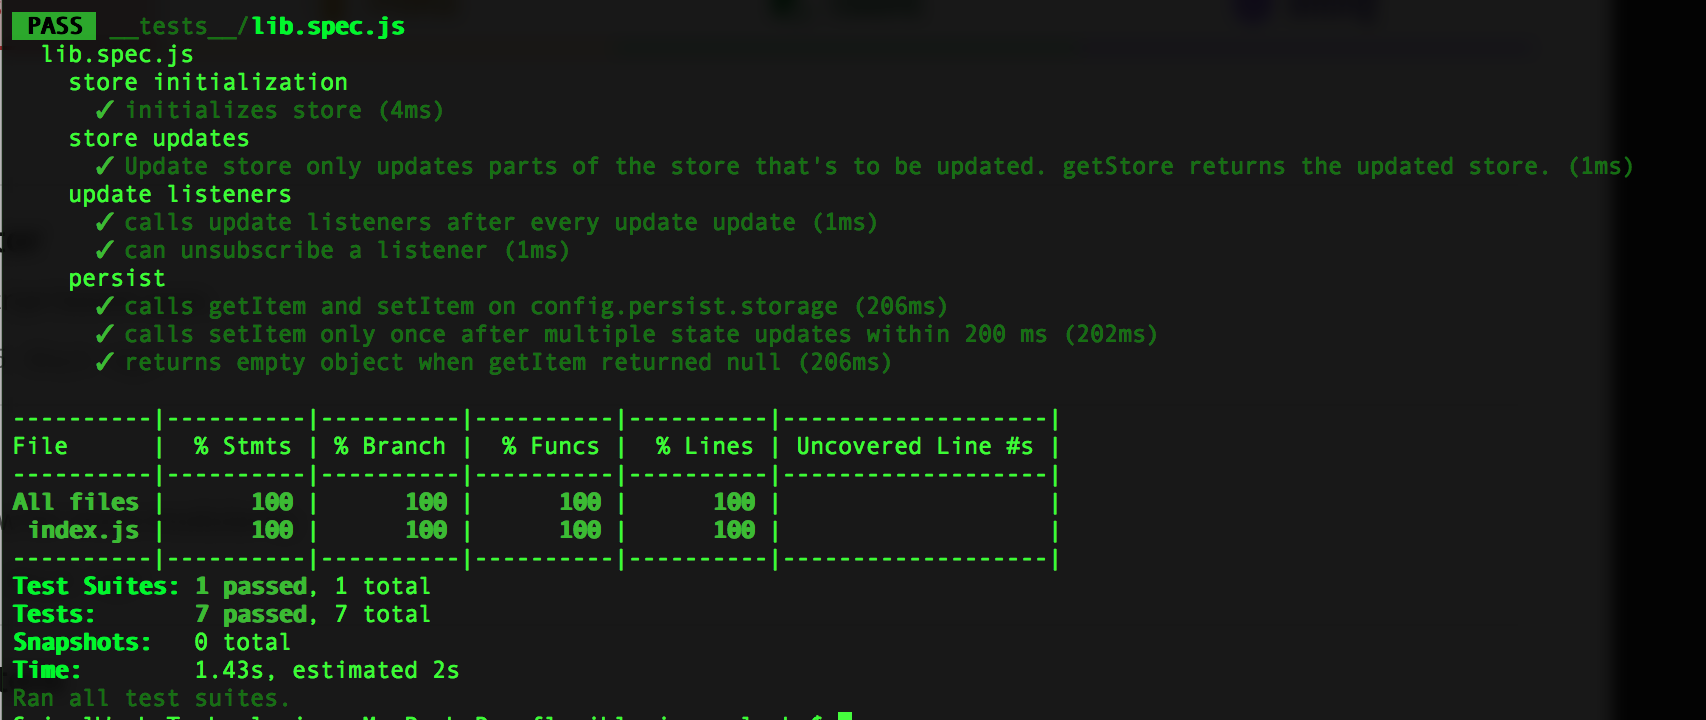
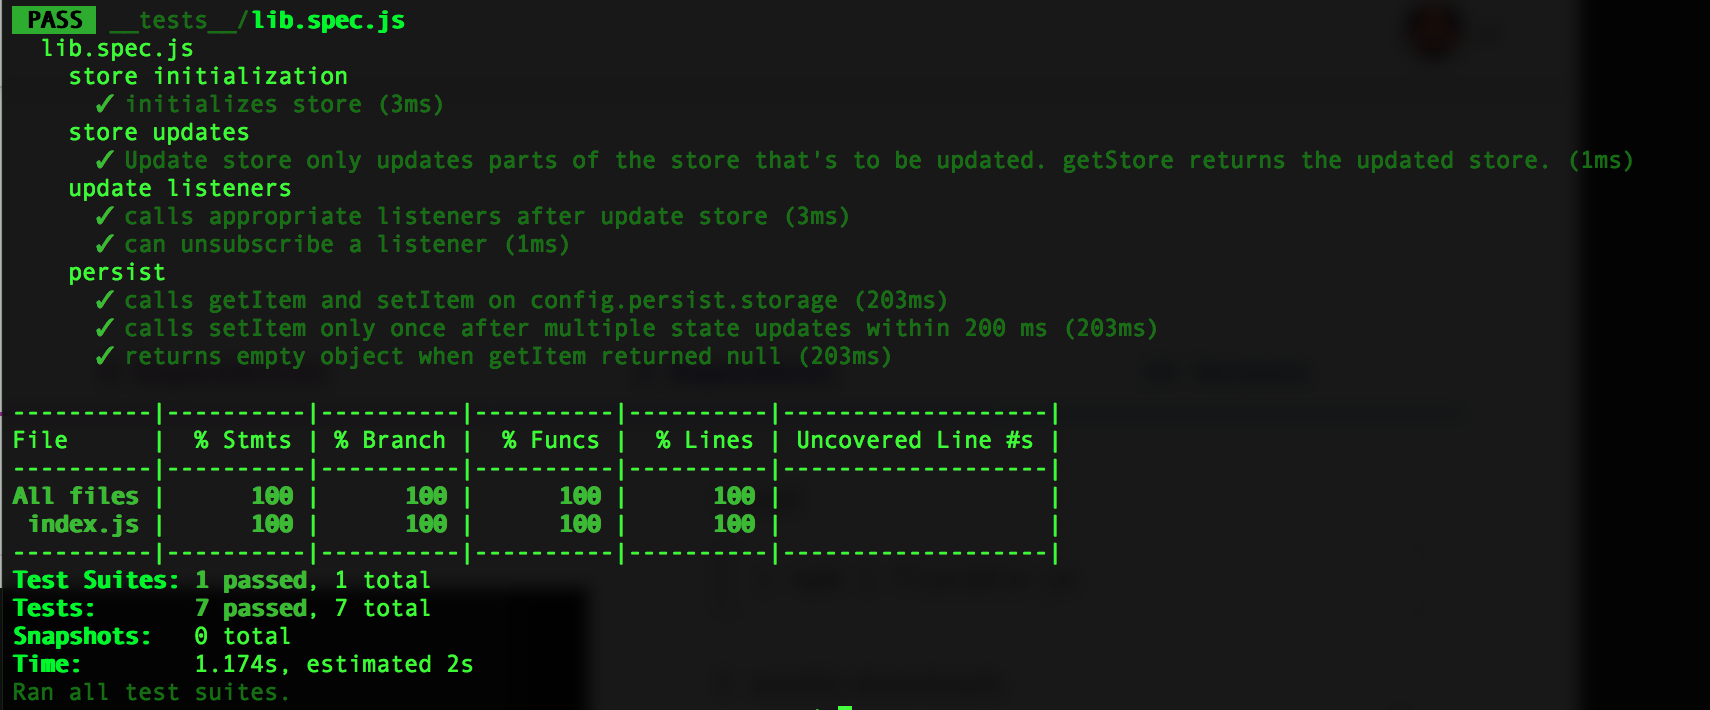
updated docs; renamed addUpdateListener to addObserver;

diff --git a/lib/index.min.js b/lib/index.min.js
@@ -1,1 +1,1 @@
-'use strict';var _extends=Object.assign||function(a){for(var b,c=1;c<arguments.length;c++)for(var d in b=arguments[c],b)Object.prototype.hasOwnProperty.call(b,d)&&(a[d]=b[d]);return a};Object.defineProperty(exports,'__esModule',{value:!0});exports.initializeStore=initializeStore,exports.getStore=getStore,exports.updateStore=updateStore,exports.addUpdateListener=addUpdateListener;var updateListeners=[],store={},persistedStateKeys=void 0,persistStorage=void 0,persistTimeout=void 0;function initializeStore(a){var b={};a.persist&&(persistStorage=a.persist.storage,b=a.persist.restore(JSON.parse(persistStorage.getItem('fluxible-js'))||{}),persistedStateKeys=Object.keys(b)),store=_extends({},a.initialStore,b)}function getStore(){return store}function updateStore(a){store=_extends({},store,a),persistTimeout&&clearTimeout(persistTimeout);var b=Object.keys(a);updateListeners.forEach(function(c){for(var d=0;d<b.length;d++)if(-1!==c.states.indexOf('{'+b[d]+'}')){c.callback(store);break}}),persistedStateKeys&&(persistTimeout=setTimeout(function(){for(var b={},c=0;c<persistedStateKeys.length;c++)b[persistedStateKeys[c]]=store[persistedStateKeys[c]];persistStorage.setItem('fluxible-js',JSON.stringify(b))},200))}function addUpdateListener(a,b){var c={callback:a,states:b.map(function(a){return'{'+a+'}'}).join(' ')};return updateListeners.push(c),function(){updateListeners.splice(updateListeners.indexOf(c),1)}}
+'use strict';var _extends=Object.assign||function(a){for(var b,c=1;c<arguments.length;c++)for(var d in b=arguments[c],b)Object.prototype.hasOwnProperty.call(b,d)&&(a[d]=b[d]);return a};Object.defineProperty(exports,'__esModule',{value:!0});exports.initializeStore=initializeStore,exports.getStore=getStore,exports.updateStore=updateStore,exports.addObserver=addObserver;var observers=[],store={},persistedStateKeys=void 0,persistStorage=void 0,persistTimeout=void 0;function initializeStore(a){var b={};a.persist&&(persistStorage=a.persist.storage,b=a.persist.restore(JSON.parse(persistStorage.getItem('fluxible-js'))||{}),persistedStateKeys=Object.keys(b)),store=_extends({},a.initialStore,b)}function getStore(){return store}function updateStore(a){store=_extends({},store,a),persistTimeout&&clearTimeout(persistTimeout);var b=Object.keys(a);observers.forEach(function(c){for(var d=0;d<b.length;d++)if(-1!==c.states.indexOf('{'+b[d]+'}')){c.callback(store);break}}),persistedStateKeys&&(persistTimeout=setTimeout(function(){for(var b={},c=0;c<persistedStateKeys.length;c++)b[persistedStateKeys[c]]=store[persistedStateKeys[c]];persistStorage.setItem('fluxible-js',JSON.stringify(b))},200))}function addObserver(a,b){var c={callback:a,states:b.map(function(a){return'{'+a+'}'}).join(' ')};return observers.push(c),function(){observers.splice(observers.indexOf(c),1)}}

diff --git a/lib/index.js b/lib/index.js
@@ -9,10 +9,10 @@ var _extends = Object.assign || function (target) { for (var i = 1; i < argument
 exports.initializeStore = initializeStore;
 exports.getStore = getStore;
 exports.updateStore = updateStore;
-exports.addUpdateListener = addUpdateListener;
+exports.addObserver = addObserver;
 /** @format */
 
-var updateListeners = [];
+var observers = [];
 var store = {};
 var persistedStateKeys = void 0;
 var persistStorage = void 0;
@@ -58,7 +58,7 @@ function updateStore(newStates) {
   if (persistTimeout) clearTimeout(persistTimeout);
   var updatedStates = Object.keys(newStates);
 
-  updateListeners.forEach(function (listener) {
+  observers.forEach(function (listener) {
     for (var a = 0; a < updatedStates.length; a++) {
       if (listener.states.indexOf('{' + updatedStates[a] + '}') !== -1) {
         listener.callback(store);
@@ -86,7 +86,7 @@ function updateStore(newStates) {
  * @param {Function} callback function
  * @return {Function} call this function to remove the listener
  */
-function addUpdateListener(callback, states) {
+function addObserver(callback, states) {
   var listener = {
     callback: callback,
     states: states.map(function (state) {
@@ -94,9 +94,9 @@ function addUpdateListener(callback, states) {
     }).join(' ')
   };
 
-  updateListeners.push(listener);
+  observers.push(listener);
 
   return function () {
-    updateListeners.splice(updateListeners.indexOf(listener), 1);
+    observers.splice(observers.indexOf(listener), 1);
   };
 }

diff --git a/playground/build/lib.js b/playground/build/lib.js
@@ -9,10 +9,10 @@ var _extends = Object.assign || function (target) { for (var i = 1; i < argument
 exports.initializeStore = initializeStore;
 exports.getStore = getStore;
 exports.updateStore = updateStore;
-exports.addUpdateListener = addUpdateListener;
+exports.addObserver = addObserver;
 /** @format */
 
-var updateListeners = [];
+var observers = [];
 var store = {};
 var persistedStateKeys = void 0;
 var persistStorage = void 0;
@@ -58,7 +58,7 @@ function updateStore(newStates) {
   if (persistTimeout) clearTimeout(persistTimeout);
   var updatedStates = Object.keys(newStates);
 
-  updateListeners.forEach(function (listener) {
+  observers.forEach(function (listener) {
     for (var a = 0; a < updatedStates.length; a++) {
       if (listener.states.indexOf('{' + updatedStates[a] + '}') !== -1) {
         listener.callback(store);
@@ -86,7 +86,7 @@ function updateStore(newStates) {
  * @param {Function} callback function
  * @return {Function} call this function to remove the listener
  */
-function addUpdateListener(callback, states) {
+function addObserver(callback, states) {
   var listener = {
     callback: callback,
     states: states.map(function (state) {
@@ -94,9 +94,9 @@ function addUpdateListener(callback, states) {
     }).join(' ')
   };
 
-  updateListeners.push(listener);
+  observers.push(listener);
 
   return function () {
-    updateListeners.splice(updateListeners.indexOf(listener), 1);
+    observers.splice(observers.indexOf(listener), 1);
   };
 }

diff --git a/playground/lib.js b/playground/lib.js
@@ -9,10 +9,10 @@ var _extends = Object.assign || function (target) { for (var i = 1; i < argument
 exports.initializeStore = initializeStore;
 exports.getStore = getStore;
 exports.updateStore = updateStore;
-exports.addUpdateListener = addUpdateListener;
+exports.addObserver = addObserver;
 /** @format */
 
-var updateListeners = [];
+var observers = [];
 var store = {};
 var persistedStateKeys = void 0;
 var persistStorage = void 0;
@@ -58,7 +58,7 @@ function updateStore(newStates) {
   if (persistTimeout) clearTimeout(persistTimeout);
   var updatedStates = Object.keys(newStates);
 
-  updateListeners.forEach(function (listener) {
+  observers.forEach(function (listener) {
     for (var a = 0; a < updatedStates.length; a++) {
       if (listener.states.indexOf('{' + updatedStates[a] + '}') !== -1) {
         listener.callback(store);
@@ -86,7 +86,7 @@ function updateStore(newStates) {
  * @param {Function} callback function
  * @return {Function} call this function to remove the listener
  */
-function addUpdateListener(callback, states) {
+function addObserver(callback, states) {
   var listener = {
     callback: callback,
     states: states.map(function (state) {
@@ -94,9 +94,9 @@ function addUpdateListener(callback, states) {
     }).join(' ')
   };
 
-  updateListeners.push(listener);
+  observers.push(listener);
 
   return function () {
-    updateListeners.splice(updateListeners.indexOf(listener), 1);
+    observers.splice(observers.indexOf(listener), 1);
   };
 }

diff --git a/src/index.js b/src/index.js
@@ -1,6 +1,6 @@
 /** @format */
 
-const updateListeners = [];
+const observers = [];
 let store = {};
 let persistedStateKeys;
 let persistStorage;
@@ -54,7 +54,7 @@ export function updateStore (newStates) {
   if (persistTimeout) clearTimeout(persistTimeout);
   const updatedStates = Object.keys(newStates);
 
-  updateListeners.forEach(listener => {
+  observers.forEach(listener => {
     for (let a = 0; a < updatedStates.length; a++) {
       if (listener.states.indexOf(`{${updatedStates[a]}}`) !== -1) {
         listener.callback(store);
@@ -82,15 +82,15 @@ export function updateStore (newStates) {
  * @param {Function} callback function
  * @return {Function} call this function to remove the listener
  */
-export function addUpdateListener (callback, states) {
+export function addObserver (callback, states) {
   const listener = {
     callback,
     states: states.map(state => `{${state}}`).join(' ')
   };
 
-  updateListeners.push(listener);
+  observers.push(listener);
 
   return () => {
-    updateListeners.splice(updateListeners.indexOf(listener), 1);
+    observers.splice(observers.indexOf(listener), 1);
   };
 }

diff --git a/__tests__/lib.spec.js b/__tests__/lib.spec.js
@@ -1,6 +1,6 @@
 /** @format */
 
-import { getStore, updateStore, initializeStore, addUpdateListener } from '../src';
+import { getStore, updateStore, initializeStore, addObserver } from '../src';
 
 describe('lib.spec.js', () => {
   describe('store initialization', () => {
@@ -66,8 +66,8 @@ describe('lib.spec.js', () => {
       const valueListener = jest.fn();
 
       initializeStore({ initialStore });
-      addUpdateListener(countListener, ['count']);
-      addUpdateListener(valueListener, ['value']);
+      addObserver(countListener, ['count']);
+      addObserver(valueListener, ['value']);
 
       updateStore({ count: 2 });
       updateStore({ count: 3 });
@@ -123,8 +123,8 @@ describe('lib.spec.js', () => {
       const listener2 = jest.fn();
 
       initializeStore({ initialStore });
-      const unsub1 = addUpdateListener(listener1, ['count']);
-      addUpdateListener(listener2, ['count']);
+      const unsub1 = addObserver(listener1, ['count']);
+      addObserver(listener2, ['count']);
 
       updateStore({ count: 100 });
       updateStore({ count: 100 });

diff --git a/README.md b/README.md
@@ -91,14 +91,21 @@ In the case above, only `user` would be saved and the rest wouldn't be saved.
 #### Listen to store updates
 
 ```jsx
-import { addUpdateListener, getStore } from 'fluxible-js';
+import { addObserver, getStore } from 'fluxible-js';
 
-const unsubscribeCallback = addUpdateListener(() => {
-  console.log('store has been updated!', getStore());
-});
+const unsubscribeCallback = addObserver(
+  () => {
+    console.log('store has been updated!', getStore());
+  },
+  ['someOtherState', 'anotherState']
+);
 ```
 
-`addUpdateListener` expects a function as its only parameter. This function would be called (without arguments) every after store updates.
+`addObserver` expects a function as the argument. This function would be called every **AFTER** store updates and will receive the updated store as it's only argument.
+
+The second argument is an array of strings which lists the names of the states that you are listening to, it's important that this list has the same name as the states you want to listen to. In the example above, I wanted to listen to `someOtherState` and `anotherState`, so every time one of those two gets updated my listener will be called.
+
+`addObserver` returns a function that you can call later on to remove _that_ observer.
 
 #### Update the store
 
@@ -110,7 +117,7 @@ updateStore({
 });
 ```
 
-Do not mutate the returned value of `getStore`. Doing so may lead to unwanted changes in your app.
+**Do not mutate the store directly. Doing so may lead to unwanted behaviors in your app.**
 
 # Contributing
 
